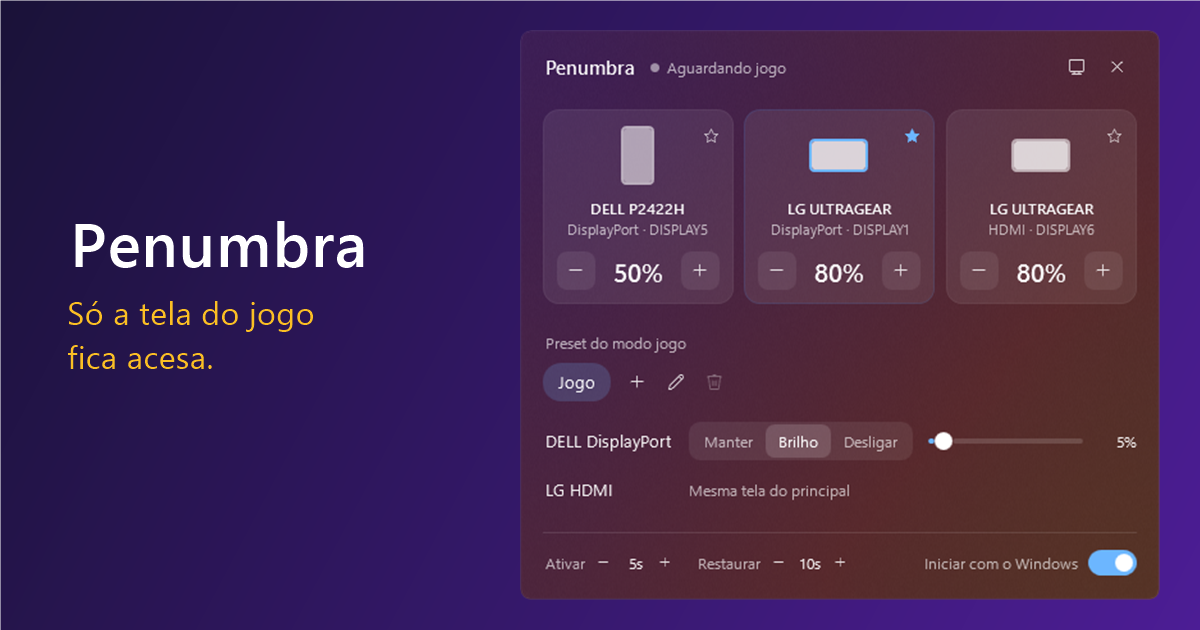
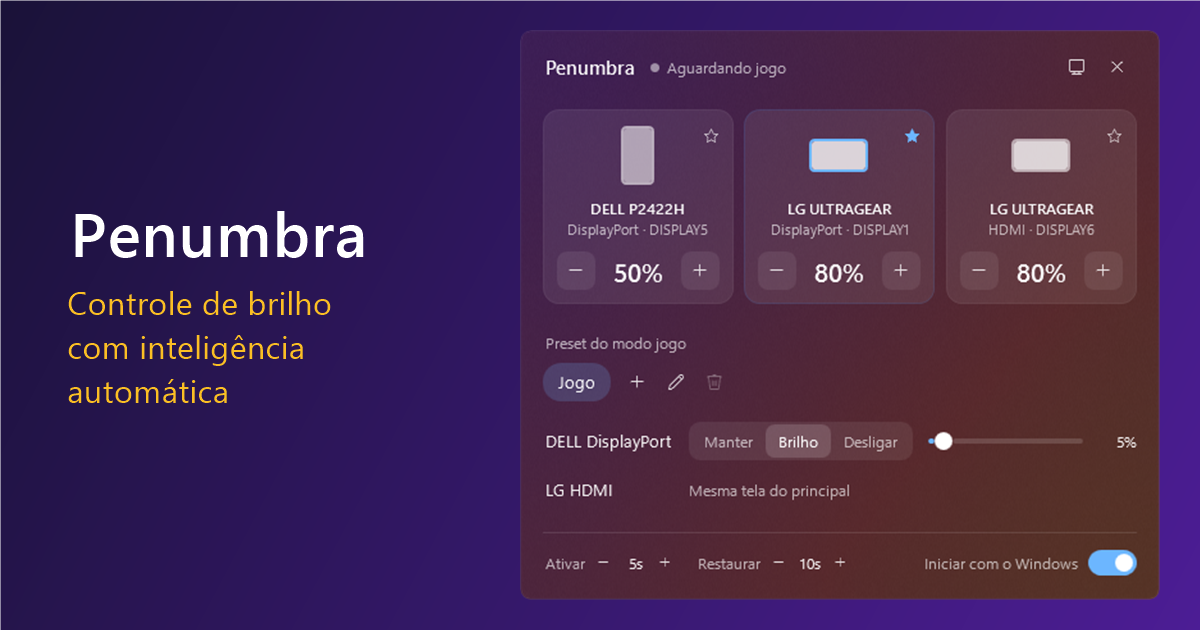
Atualiza o titulo do site

Changed region(s): [[0.0308, 0.4524, 0.2775, 0.6635], [0.0617, 0.3317, 0.3083, 0.4222]]

diff --git a/site/index.html b/site/index.html
@@ -19,7 +19,7 @@
   <meta property="og:locale" content="pt_BR">
   <meta property="og:locale:alternate" content="en_US">
   <meta property="og:url" content="https://ferbdev.github.io/penumbra/">
-  <meta property="og:title" content="Penumbra: só a tela do jogo fica acesa">
+  <meta property="og:title" content="Penumbra: controle de brilho com inteligência automática">
   <meta property="og:description" content="Widget gratuito para Windows 11 que escurece os monitores secundários enquanto você joga. Um único .exe, sem instalação.">
   <meta property="og:image" content="https://ferbdev.github.io/penumbra/assets/og.png">
   <meta property="og:image:width" content="1200">
@@ -73,7 +73,7 @@
     <section class="hero">
       <div>
         <span class="eyebrow glass"><span class="dot" aria-hidden="true"></span>Grátis · Open source · Windows 11</span>
-        <h1>Só a tela do jogo <span class="grad">fica acesa.</span></h1>
+        <h1>Controle de brilho <span class="grad">com inteligência automática</span></h1>
         <p class="lead">
           O Penumbra percebe quando um jogo abre em tela cheia, escurece ou desliga seus monitores secundários
           e devolve o brilho quando você sai. Sem instalação: um único arquivo e pronto.

diff --git a/site/en/index.html b/site/en/index.html
@@ -19,7 +19,7 @@
   <meta property="og:locale" content="en_US">
   <meta property="og:locale:alternate" content="pt_BR">
   <meta property="og:url" content="https://ferbdev.github.io/penumbra/en/">
-  <meta property="og:title" content="Penumbra: only your game screen stays lit">
+  <meta property="og:title" content="Penumbra: brightness control with automatic intelligence">
   <meta property="og:description" content="Free Windows 11 widget that dims your secondary monitors while you play. A single .exe, no install.">
   <meta property="og:image" content="https://ferbdev.github.io/penumbra/assets/og.png">
   <meta property="og:image:width" content="1200">
@@ -73,7 +73,7 @@
     <section class="hero">
       <div>
         <span class="eyebrow glass"><span class="dot" aria-hidden="true"></span>Free · Open source · Windows 11</span>
-        <h1>Only your game screen <span class="grad">stays lit.</span></h1>
+        <h1>Brightness control <span class="grad">with automatic intelligence</span></h1>
         <p class="lead">
           Penumbra notices when a game goes fullscreen, dims or turns off your secondary monitors
           and brings the brightness back when you leave. No install: a single file and you’re done.
